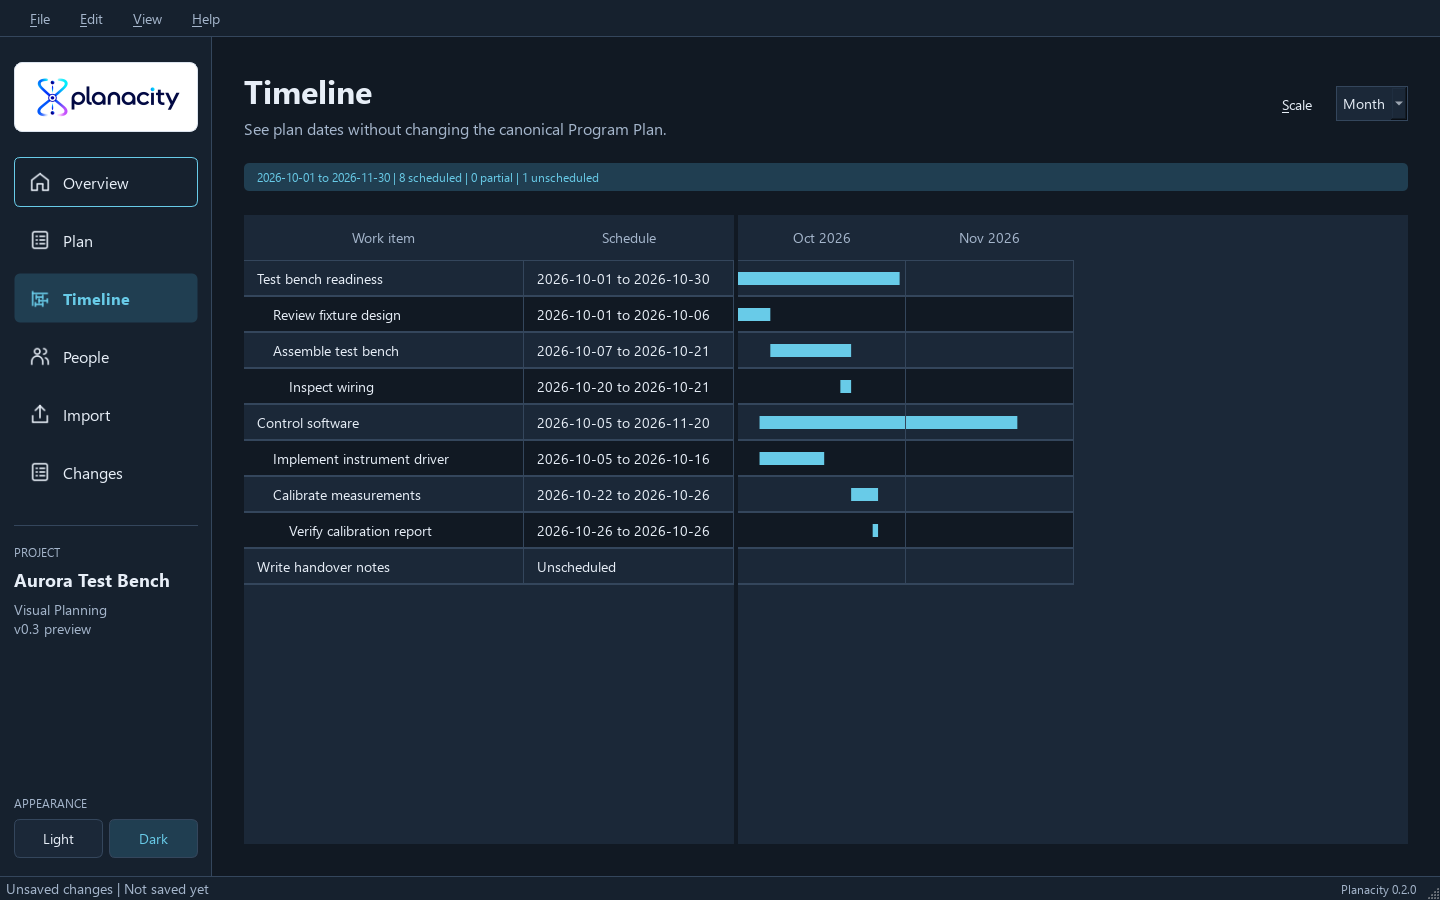
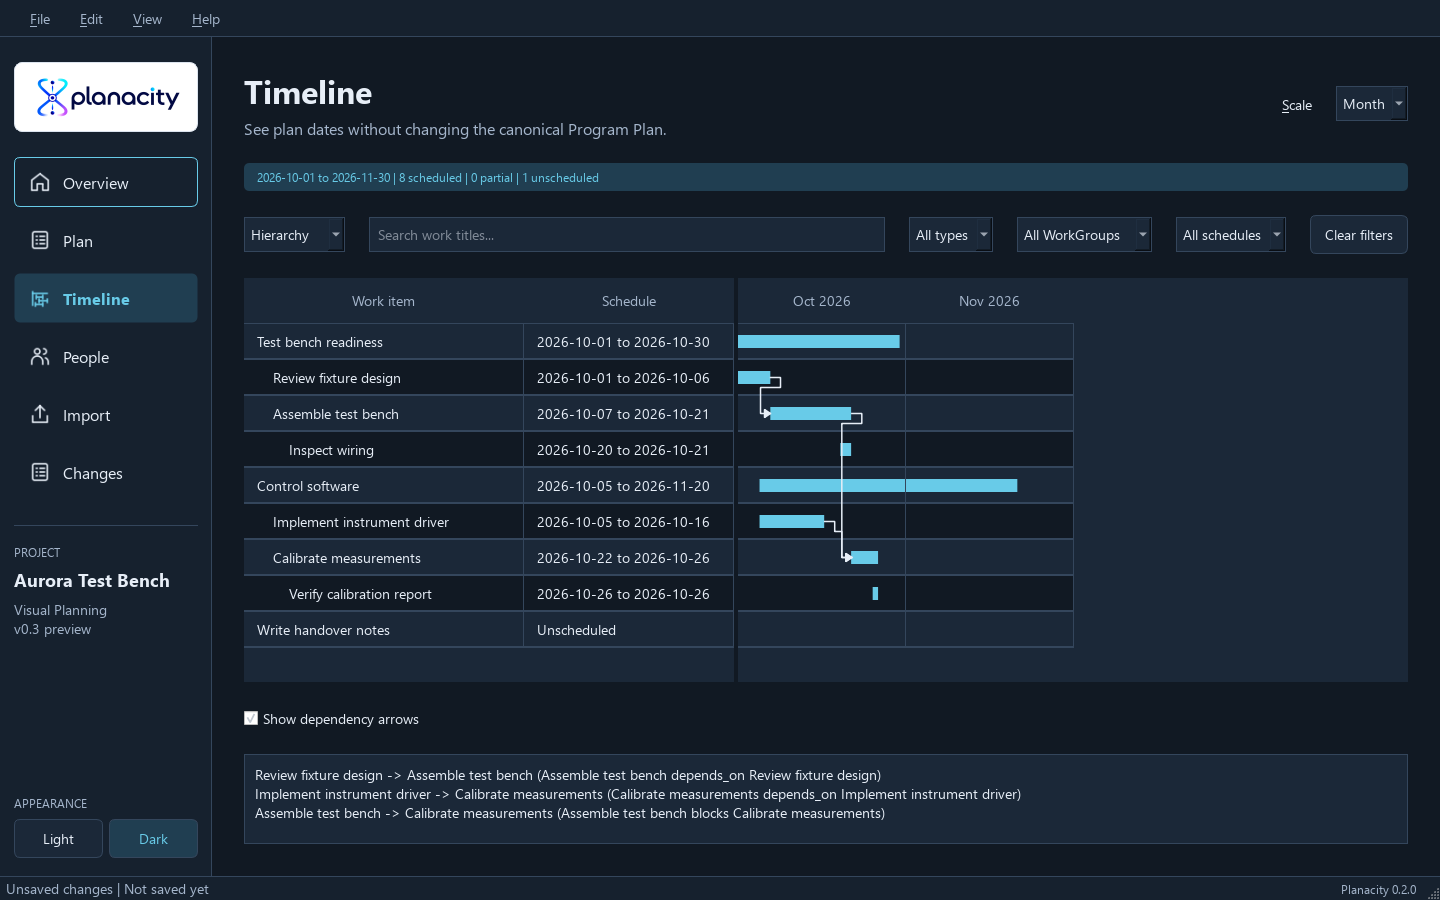
docs(timeline): explain grouping and dependency views

diff --git a/docs/getting-started.md b/docs/getting-started.md
@@ -55,6 +55,32 @@ Use **File -> Export JSON backup...** for a portable backup. See
 
 ## Validation record
 
+### Grouping, filters, and dependencies
+
+In Timeline, use the grouping selector to choose Hierarchy, Epic, or WorkGroup.
+The Section column identifies grouped work, including Standalone work and
+Ungrouped work. An Epic in several WorkGroups appears in each group; the summary
+counts each work item once. Sibling order and canonical work identities stay intact.
+
+Combine title search, work type, WorkGroup, and schedule-state filters. Filters
+match individual rows, so matching children can appear without their parents.
+**Clear filters** restores all work in the current grouping. These controls can
+be reached with Tab and operated using the keyboard.
+
+**Show dependency arrows** connects predecessor ends to successor starts:
+`A depends_on B` draws `B -> A`; `A blocks B` draws `A -> B`. Hierarchy and
+`related_to` links do not create dependency arrows. Select work to read its links
+in the keyboard-accessible details panel. Overlapping dates are explained there.
+
+Cyclic, filtered, partially scheduled, or outside-horizon endpoints have an
+explanation instead of an arrow. Both endpoints must also be on screen; scroll
+or choose a broader scale to see the connector. Multiple memberships show links
+within shared sections; links across sections use the first occurrences.
+Toggle arrows off to reduce visual clutter. No dates, estimates, relationships,
+or imported baselines are changed by these views.
+
+![Grouped Timeline in dark appearance](images/timeline-grouped-dark.png)
+
 Timeline scales retain selection and date context without editing the plan.
 Week and month views are available in both appearances; narrow period labels
 are shortened, with exact dates available in header tooltips.

diff --git a/docs/v0.3-issues.md b/docs/v0.3-issues.md
@@ -24,8 +24,8 @@ Tracked in GitHub issues [#30](https://github.com/tidus747/planacity/issues/30),
 | V03-01 | Deterministic timeline projection | v0.2 | Complete (#30) |
 | V03-02 | Desktop Timeline view | V03-01 | Complete (#31) |
 | V03-03 | Day, week, and month scales | V03-01, V03-02 | Implemented for review (#32) |
-| V03-04 | Grouping and filtering | V03-02 | Planned in #33 |
-| V03-05 | Basic dependency visualization | V03-02 | Planned in #34 |
+| V03-04 | Grouping and filtering | V03-02 | Implemented for review (#33) |
+| V03-05 | Basic dependency visualization | V03-02 | Implemented for review (#34) |
 | V03-06 | Validation and documentation | V03-01 through V03-05 | Planned in #35 |
 | V03-07 | Resize bar start/end dates | V03-02, V03-03 | Planned in [#50](https://github.com/tidus747/planacity/issues/50) |
 
@@ -55,7 +55,7 @@ Changing a date range does not change estimated effort hours, move dependent wor
 or overwrite an imported baseline. Partial and unscheduled work continues to use
 the date editor. This work is planned, not enabled in the current read-only view.
 
-Dependency arrows are already in #34. For A depends_on B, draw B -> A; for A blocks
+Dependency arrows are implemented for review in #34. For A depends_on B, draw B -> A; for A blocks
 B, draw A -> B. Parent/child hierarchy and related_to are separate concepts.
 Show accessible relationship details and handle hidden or unscheduled endpoints
 without misleading arrows. Displaying a dependency does not automatically move work.

diff --git a/docs/architecture.md b/docs/architecture.md
@@ -100,3 +100,15 @@ without Qt or a list of every date. Partial first/last periods stay within the
 planning horizon, including the supported minimum and maximum dates. Rendering
 uses fractional bar spans within those periods; canonical dates never change.
 The desktop stores `timeline/scale` in local QSettings, independently of projects.
+
+`planning/timeline_view.py` filters individual rows and arranges them by canonical
+hierarchy, Epic, or WorkGroup. Grouped rows retain the work UUID and add a section
+UUID for stable display selection. Multiple WorkGroup memberships produce display
+occurrences of the same work; summary counts deduplicate UUIDs.
+
+`planning/timeline_dependencies.py` resolves predecessor/successor direction from
+Relationships, detects cyclic links, and explains unavailable endpoints. Its
+orthogonal connector geometry is independently testable. The Qt schedule view
+maps day coordinates to visible cells and draws arrows only when both actual
+endpoints are on screen. Cross-section links use the first occurrence when no
+shared section exists. None of these operations changes the canonical plan.

diff --git a/README.md b/README.md
@@ -27,8 +27,9 @@ capacity remains planned for v0.4. New workspaces start empty; a fictional examp
 available separately in `examples/aurora.planacity.json`.
 
 Manual planning and Jira CSV roundtrip are implemented. The Timeline shows work
-using the same canonical plan; the current [v0.3 roadmap](docs/v0.3-issues.md)
-tracks scales, grouping, dependency arrows, and direct date editing. Read the
+using the same canonical plan, with scales, grouping, filters, and dependency
+arrows. The current [v0.3 roadmap](docs/v0.3-issues.md) tracks remaining direct
+date editing and release validation. Read the
 [import guide](docs/jira-import.md) and [export guide](docs/jira-export.md).
 Completed-version issue drafts have been retired; GitHub Issues and Milestones
 retain their history. Capacity and recurring reservations remain planned for v0.4.

diff --git a/CHANGELOG.md b/CHANGELOG.md
@@ -6,6 +6,10 @@ Meaningful user-facing changes are recorded here. Planacity uses Semantic Versio
 
 ### Added
 
+- Timeline grouping by hierarchy, Epic, or WorkGroup, with title, type,
+  WorkGroup, and schedule-state filters and explicit ungrouped sections.
+- Directional dependency arrows with readable relationship details, filter and
+  schedule explanations, and cycle detection. Arrows never change dates.
 - Day, week, and month Timeline scales with calendar-aligned periods, preserved
   selection and visible dates, and a remembered local scale preference.
 - A read-only desktop Timeline with aligned hierarchy labels, scheduled bars,
